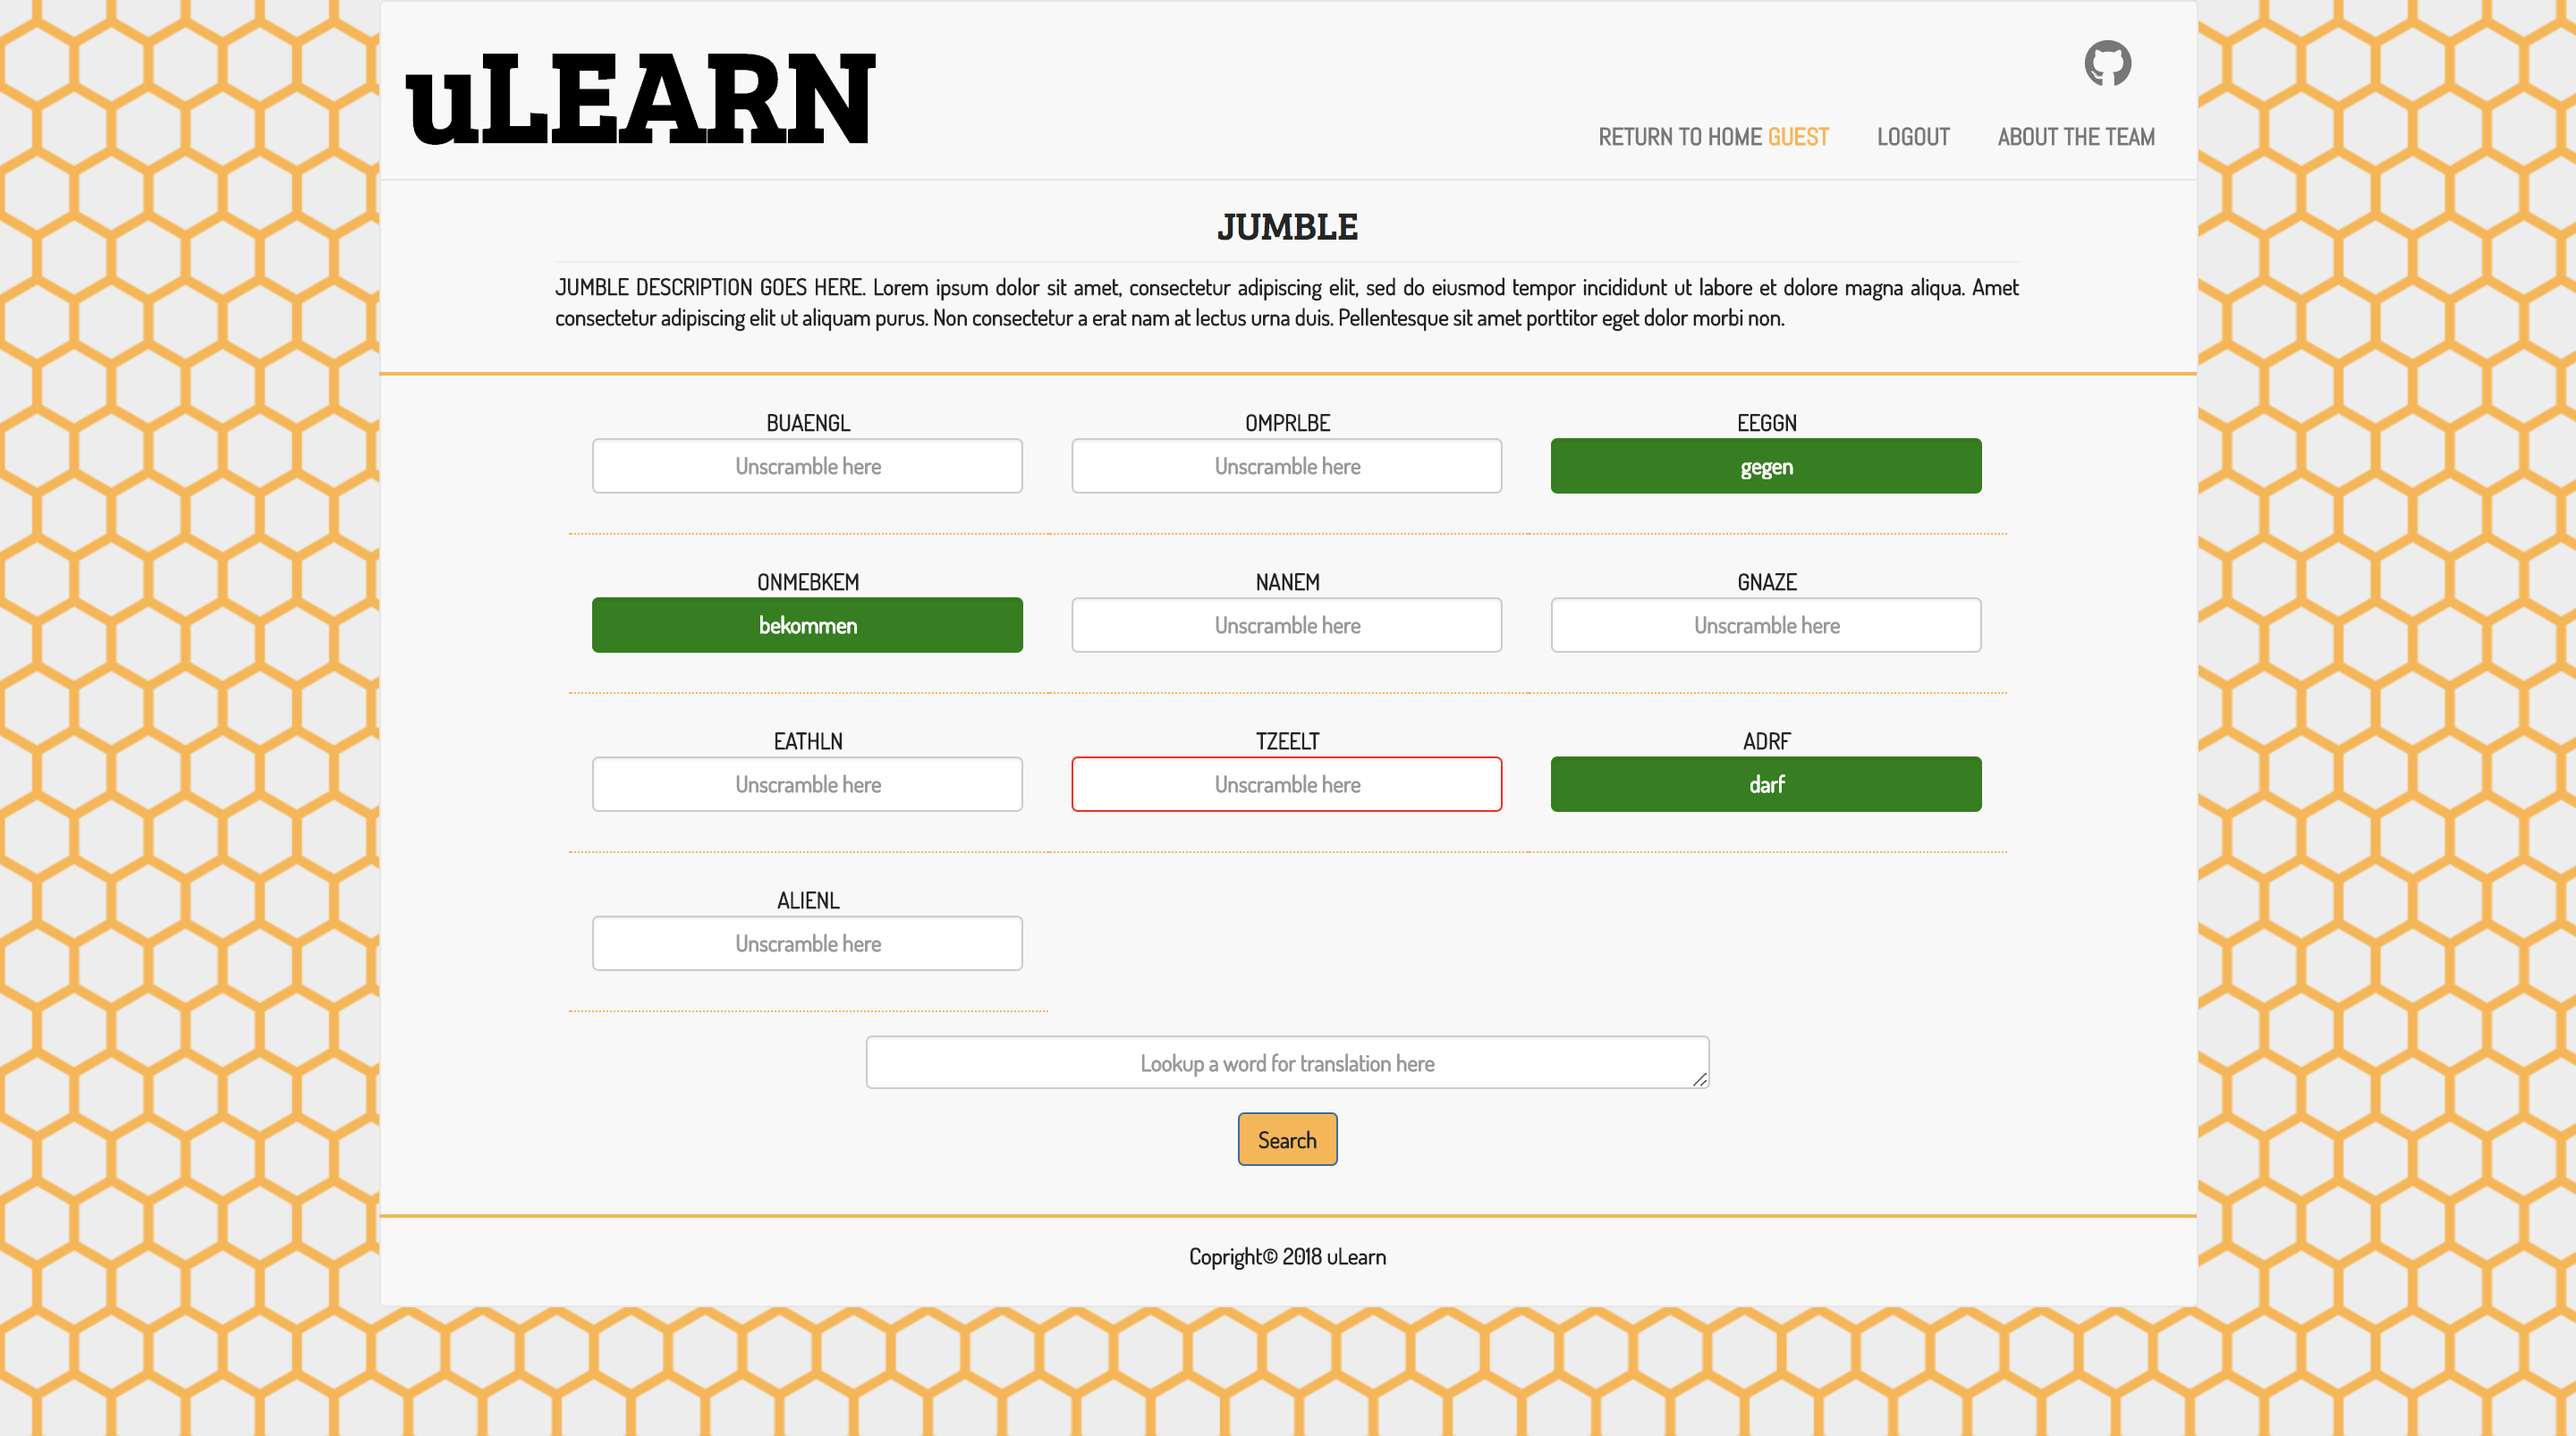
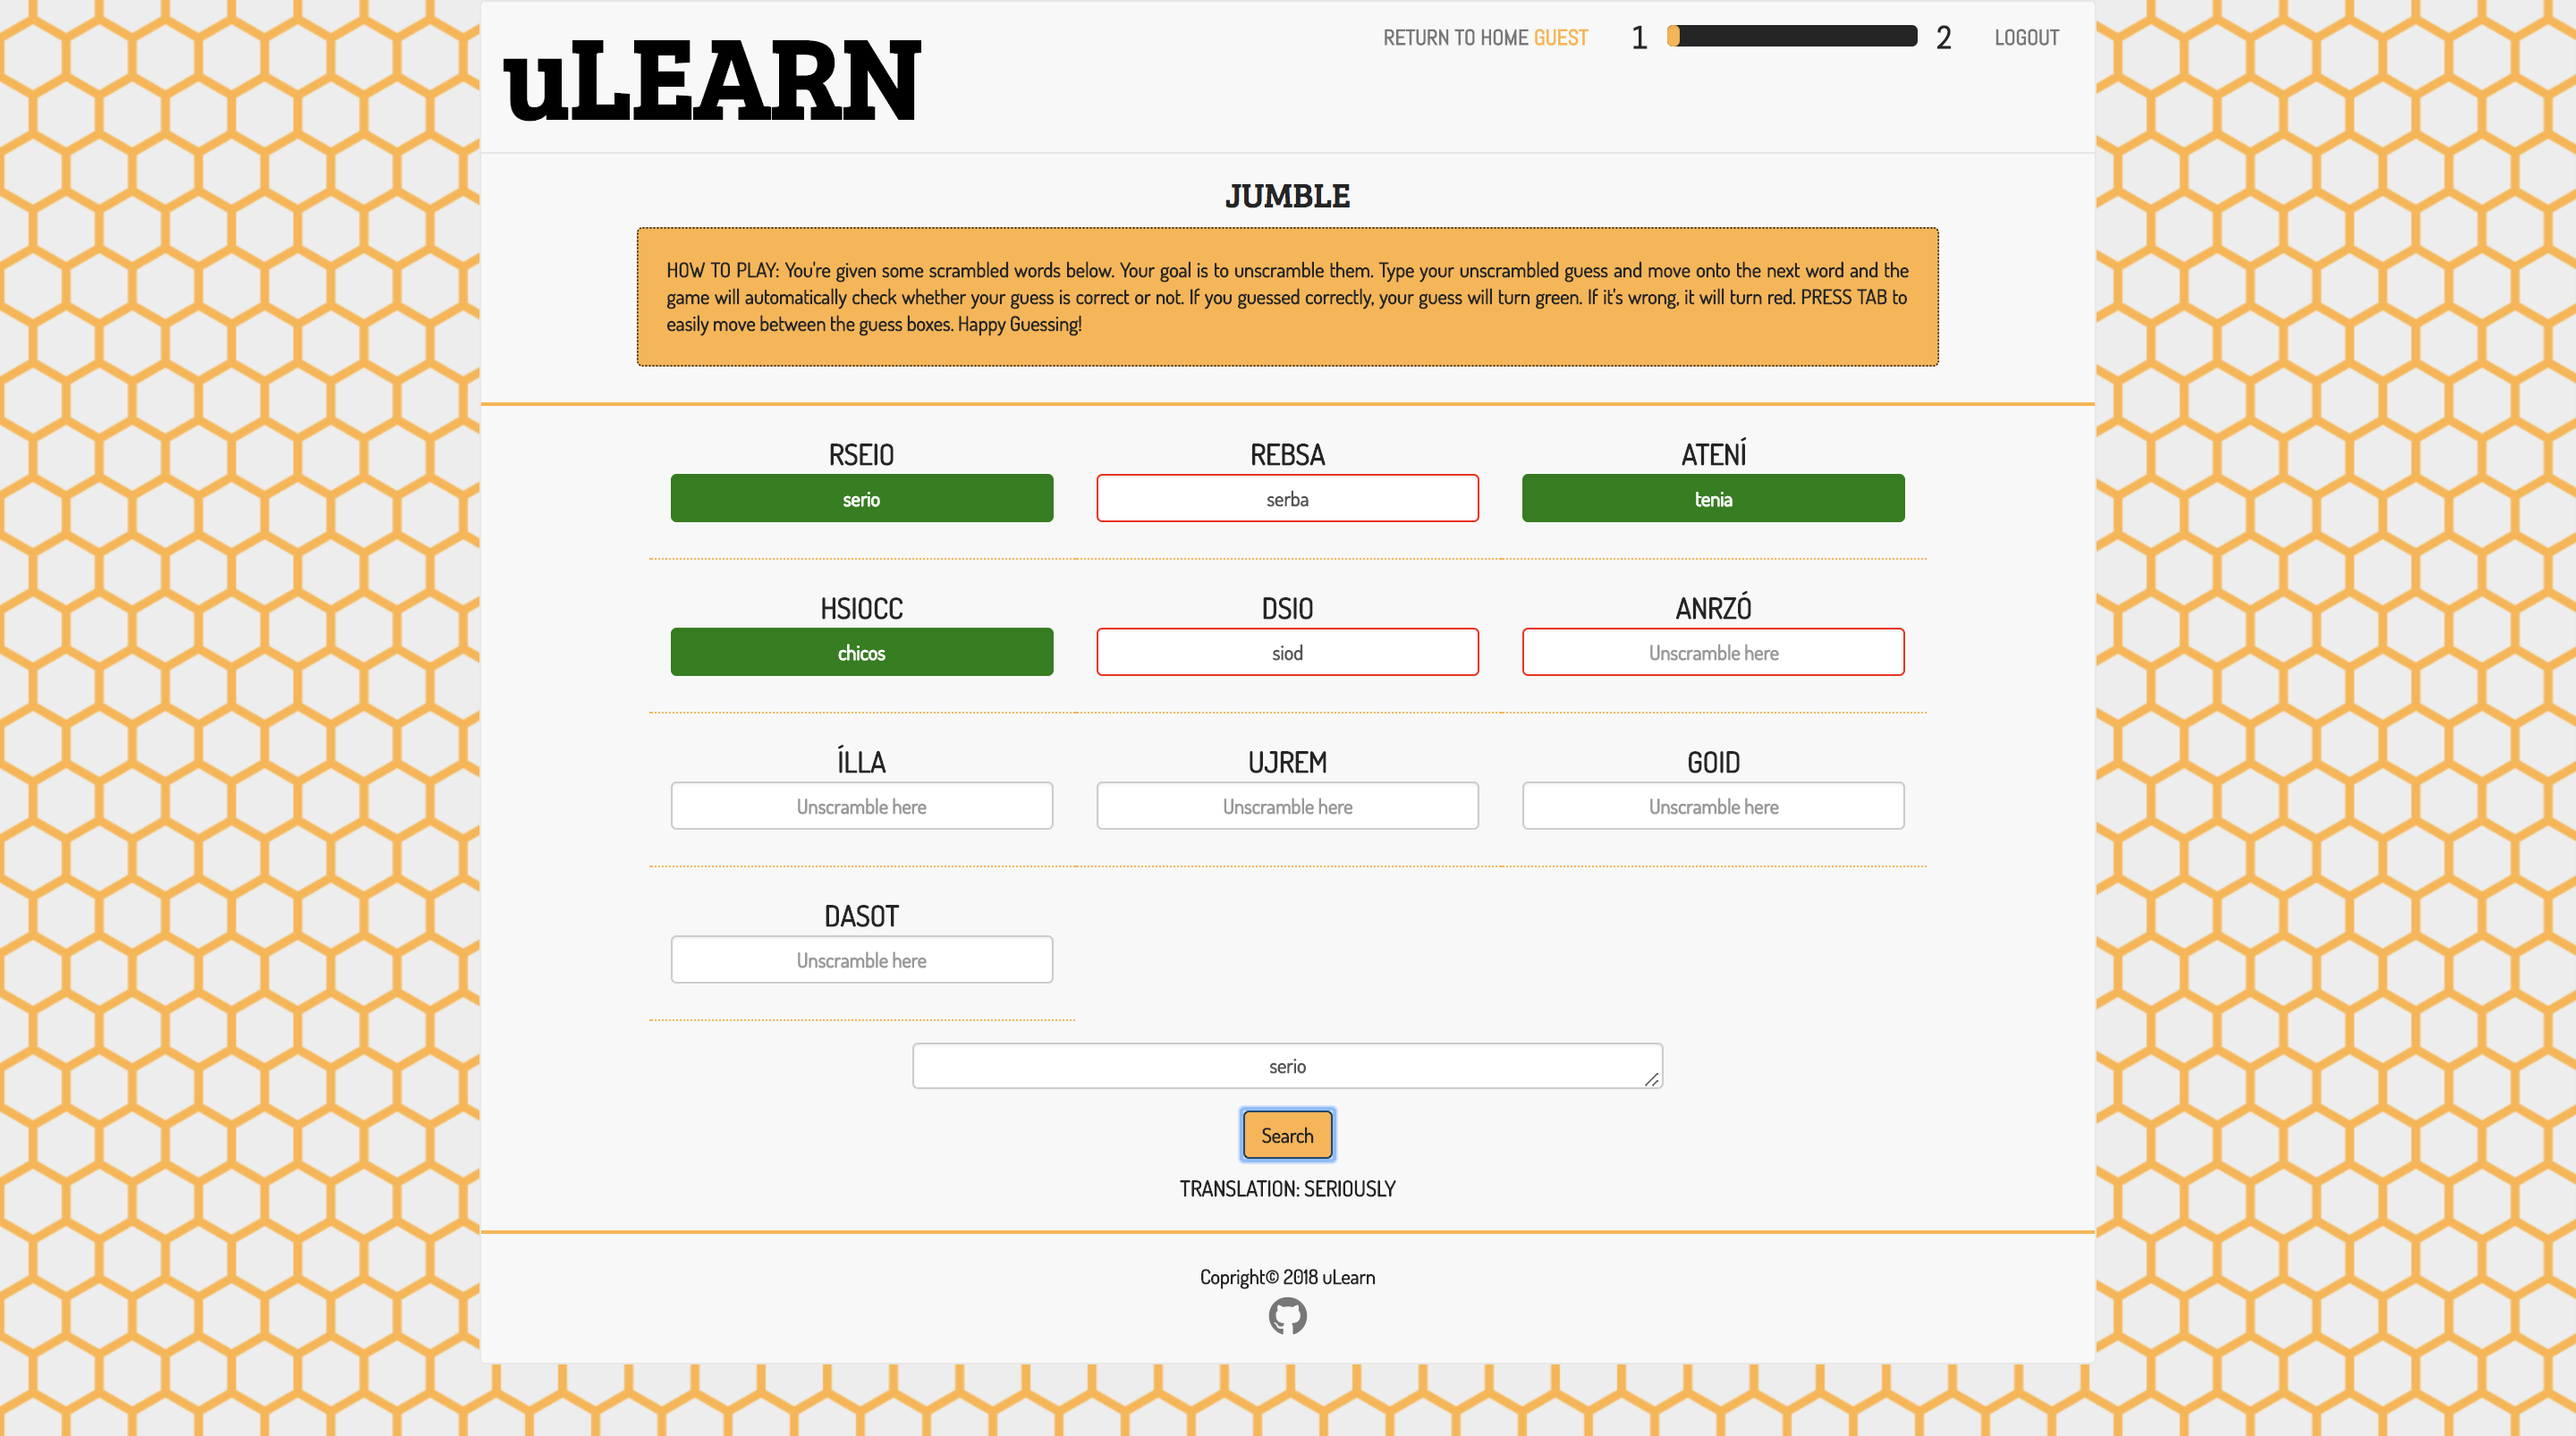
readMe and comment out about the team page

diff --git a/public/index.html b/public/index.html
@@ -77,9 +77,9 @@
                                             <li id="option" class="logoutlink">
                                                 <a href="#">LOGOUT</a>
                                             </li>
-                                            <li id="option">
+                                            <!-- <li id="option">
                                                 <a href="/about">ABOUT THE TEAM</a>
-                                            </li>
+                                            </li> -->
                                         </ul>
                                     </div>
                                 </div>

diff --git a/public/hangman.html b/public/hangman.html
@@ -66,9 +66,9 @@
                             <li id="option" class="logoutlink">
                                 <a href="#">LOGOUT</a>
                             </li>
-                            <li id="option">
+                            <!-- <li id="option">
                                 <a href="/about">ABOUT THE TEAM</a>
-                            </li>
+                            </li> -->
                         </ul>
                     </div>
 

diff --git a/public/jumble.html b/public/jumble.html
@@ -69,9 +69,9 @@
                             <li id="option" class="logoutlink">
                                 <a href="#">LOGOUT</a>
                             </li>
-                            <li id="option">
+                            <!-- <li id="option">
                                 <a href="/about">ABOUT THE TEAM</a>
-                            </li>
+                            </li> -->
                         </ul>
                     </div>
 

diff --git a/public/wordsearch.html b/public/wordsearch.html
@@ -69,9 +69,9 @@
                             <li id="option" class="logoutlink">
                                 <a href="#">LOGOUT</a>
                             </li>
-                            <li id="option">
+                            <!-- <li id="option">
                                 <a href="/about">ABOUT THE TEAM</a>
-                            </li>
+                            </li> -->
                         </ul>
                     </div>
 

diff --git a/README.md b/README.md
@@ -6,7 +6,7 @@ Original Deployment Date - March 21, 2018
 
 # The Idea:
 
-The idea behind this application is to provide users with a fun an easy way to learn a new language!
+The idea behind this application is to provide users with a fun an easy way to learn a new language by playing games!
 
 # Users Guide:
 
@@ -16,7 +16,7 @@ Instructions -
 
 Landing Page:
 
-When a user arrives on our page, they will see this Landing Page. They can learn a little bit more about our website and when they are ready choose to sign up for an account, log in to their existing account, or continute to learn as a guest. They will then be directed to our Home Page.
+When a user arrives on our page, they will see this Landing Page. They can learn a little bit more about our website, and when they are ready they can choose to sign up for an account, log in to their existing account, or continute to learn as a guest. They will then be directed to our Home Page.
 
 ![Landing Page](public/images/indexScreen.png)
 
@@ -29,19 +29,27 @@ Here the user selects which language they would like to learn, which game they w
 
 Jumble Game Page:
 
-Game desc.
+You're given some scrambled words below. Your goal is to unscramble them. Type your
+unscrambled guess and move onto the next word and the game will automatically check whether
+your guess is correct or not. If you guessed correctly, your guess will turn green. If it's
+wrong, it will turn red. PRESS TAB to easily move between the guess boxes. Happy Guessing!
 
 ![Jumble Game](public/images/jumbleScreen.png)
 
 Hangman Game Page:
 
-Game desc.
+The blank spaces represent a word. A rough translation of that word is provided
+for you. In order to play, press a letter on your keyboard. If the guessed letter appears
+in the word, it will display in place of the appropriate blank. If that letter does not appear
+in the word, your guesses remaining will decrement by one. If you guess all the missing letters
+correctly, your wins increase by one. If you run out of remaining guesses, your losses increase
+by one. Once you have reached 10 wins, you have completed the level!
 
 ![Jumble Game](public/images/hangmanScreen.png)
 
 WordSearch Game Page:
 
-Game desc.
+In the grid are some hidden words. The Word Key contains the words that you have to find hidden within the grid. The words can be hidden either horizontally or vertically. Click the letters to spell out your guess! Note that the order in which you click matters. For translation, hover over the words in the Word Key.
 
 ![Jumble Game](public/images/wordsearchScreen.png)
 
@@ -51,6 +59,7 @@ jQuery - <http://api.jquery.com/> \
 Bootstrap v3 - <http://getbootstrap.com/docs/3.3/> \
 Yandex API - <https://developer.spotify.com/web-api/> \
 FrequencyWords - <https://github.com/hermitdave/FrequencyWords> \
+Anime.Js - <http://animejs.com/documentation/> \
 
 
 # Original Contributors:
